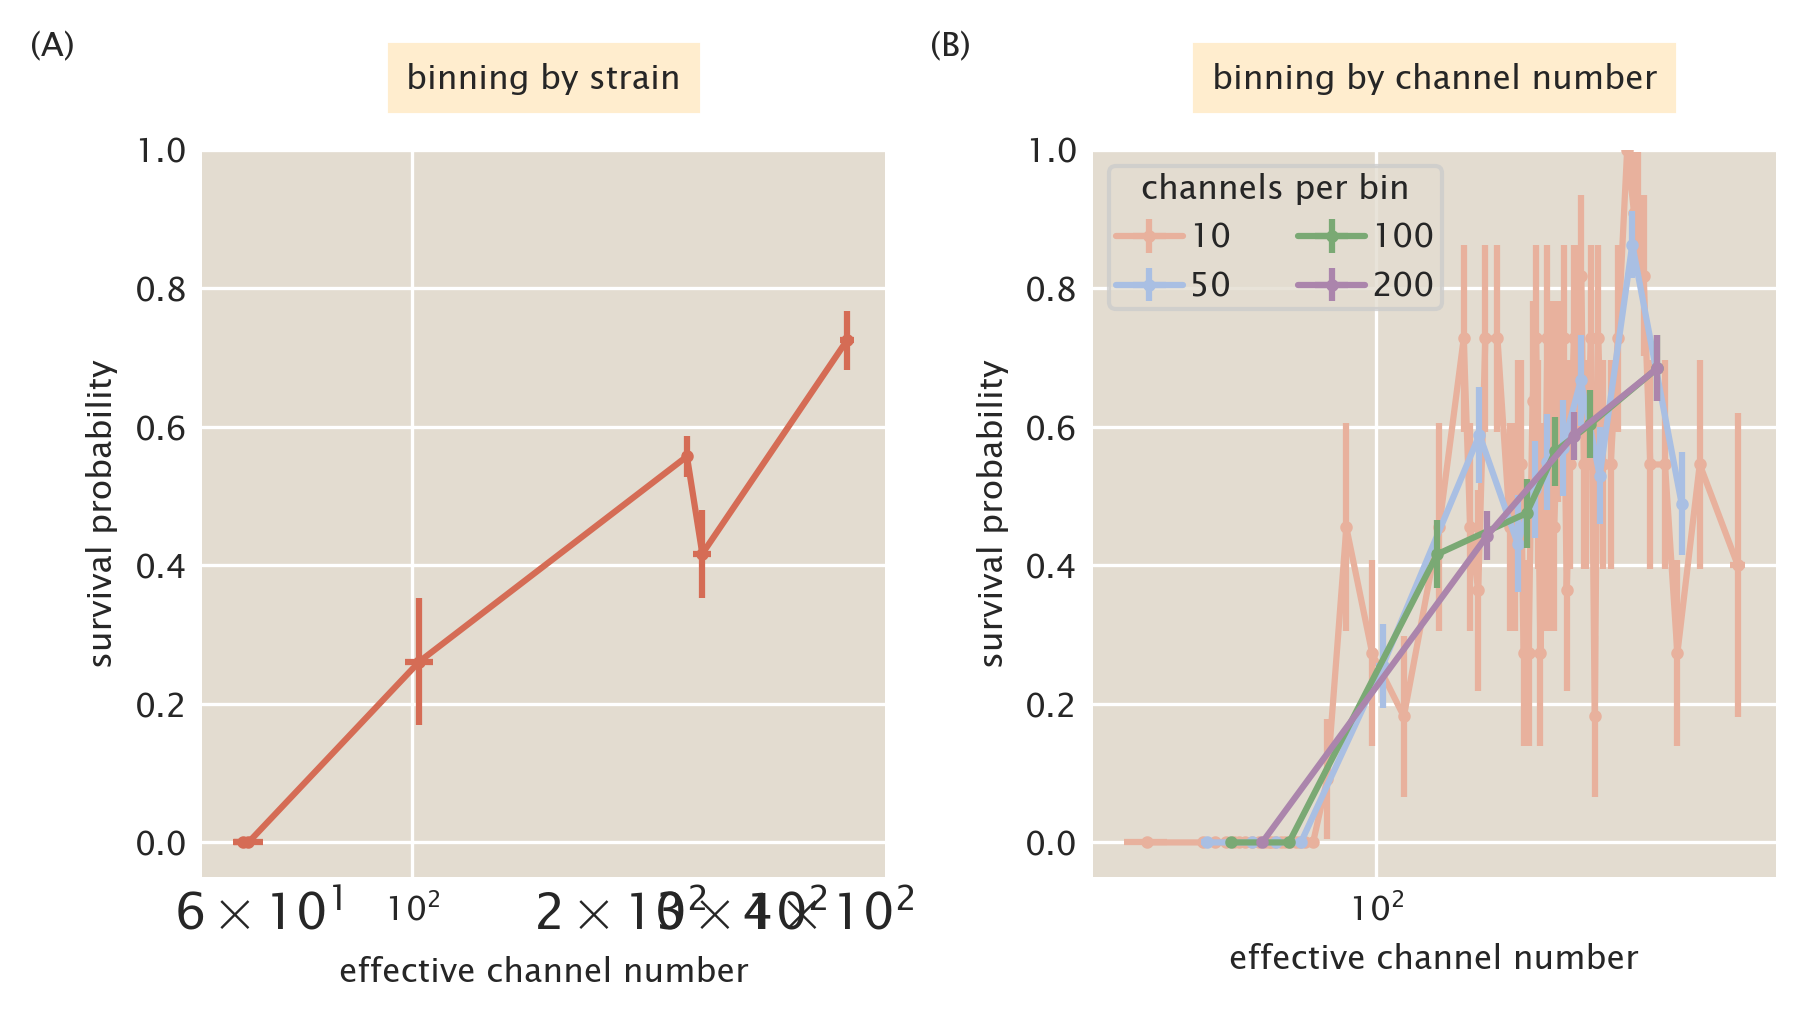
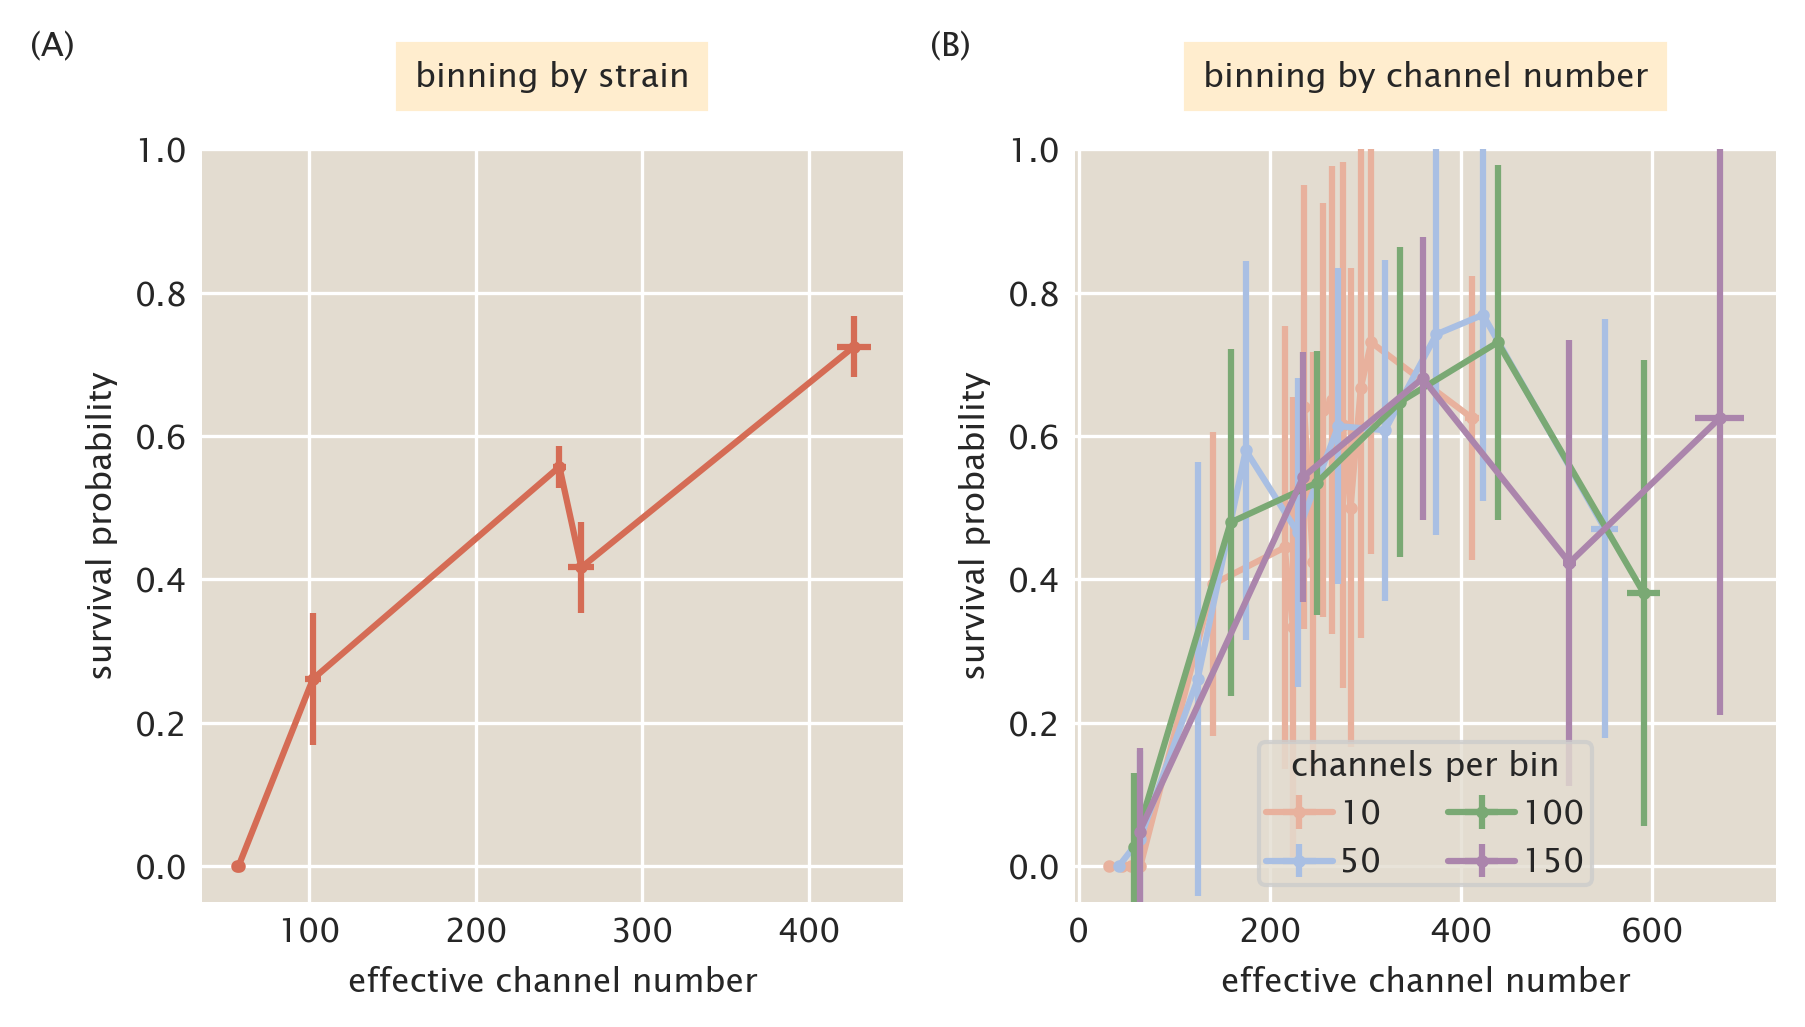
Updated figures with refactored logistic regression.

diff --git a/code/figs/fig4_survival_probability.py b/code/figs/fig4_survival_probability.py
@@ -21,14 +21,32 @@ data = data[data['experiment'] == 'shock']
 # Extract the modes.
 ind = np.argmax(traces['logp'])
 beta_0, beta_1 = traces.iloc[ind][['beta_0', 'beta_1']].values
+print(beta_0, beta_1)
+
+
+def logit(beta_0, beta_1, chan):
+    return (1 + chan**-beta_1 * np.exp(-beta_0))**-1
+
+
+def compute_mean_sem(df):
+    n_tot = len(df)
+    n_surv = np.sum(df['survival'].astype(int))
+    mean_chan = df['effective_channels'].mean()
+    prob = n_surv / n_tot
+    sem_chan = df['effective_channels'].std() / np.sqrt(len(df))
+    prob_err = n_surv * (n_tot - n_surv) / n_tot**3
+    out_dict = {'mean_chan': mean_chan, 'p_survival': prob, 'chan_err': sem_chan,
+                'prob_err': np.sqrt(prob_err)}
+    return pd.Series(out_dict)
+
 
 # Compute the prediction from logistic regression.
-chan_range = np.logspace(0, 4, 500)
-p_survival = (1 + np.exp(-beta_0 - beta_1 * np.log(chan_range)))**-1
+chan_range = np.linspace(0, 1000, 500)
+p_survival = logit(beta_0, beta_1, chan_range)
 
 cred_region = np.zeros((2, len(chan_range)))
 for i, c in enumerate(chan_range):
-    mode = (1 + np.exp(-traces['beta_0'] - traces['beta_1'] * np.log(c)))**-1
+    mode = logit(traces['beta_0'], traces['beta_1'], c)
     cred_region[:, i] = mscl.mcmc.compute_hpd(mode, 0.95)
 
 # %%
@@ -41,9 +59,10 @@ ax2.set_xlabel('effective channel number', fontsize=8)
 ax1.set_ylabel('survival probability', fontsize=8)
 
 # Plot the prediction and credible region
-_ = ax1.plot(chan_range, p_survival, color=colors['blue'], lw=1)
+_ = ax1.plot(chan_range, p_survival,
+             color=colors['blue'], lw=1, label='no binning')
 _ = ax1.fill_between(chan_range, cred_region[0, :], cred_region[1, :],
-                     color=colors['light_blue'], label='logistic regression')
+                     color=colors['light_blue'])
 _ = ax1.plot(chan_range, cred_region[0, :],
              color=colors['blue'], lw=0.5)
 _ = ax1.plot(chan_range, cred_region[1, :],
@@ -59,39 +78,14 @@ ax2.plot(death['effective_channels'], np.random.normal(0, 0.01,
                                                        size=len(death)), 'k.',
          alpha=0.2, ms=2)
 
-# # Plot the binned data.
-# bin_width = 100
-# bins = np.arange(0, 850, bin_width)
-# sorted_vals = data.sort_values('effective_channels')
-# mean_chan, prob, chan_err, prob_err = [], [], [], []
-# for i in range(len(bins) - 1):
-#     slc = data[(data['effective_channels'] >= bins[i]) &
-#                (data['effective_channels'] < bins[i + 1])]
-#     if len(slc) > 0:
-#         n_surv = np.sum(slc['survival'].astype(int))
-#         n_tot = len(slc)
-#         mean_chan.append(np.mean(slc['effective_channels']))
-#         chan_err.append(np.std(slc['effective_channels']) / np.sqrt(len(slc)))
-#         prob.append(n_surv / n_tot)
-#         prob_err.append(np.sqrt(n_surv * (n_tot - n_surv) / n_tot**3))
-#
-# _ = ax1.errorbar(mean_chan, prob, xerr=chan_err, yerr=prob_err, marker='.',
-#                  color=colors['red'], linestyle='none', lw=1)
-#
-
-# Bin by strain and compute the avg..
-
-
-def compute_mean_sem(df):
-    n_tot = len(df)
-    n_surv = np.sum(df['survival'].astype(int))
-    mean_chan = df['effective_channels'].mean()
-    prob = n_surv / n_tot
-    sem_chan = df['effective_channels'].std() / np.sqrt(len(df))
-    prob_err = n_surv * (n_tot - n_surv) / n_tot**3
-    out_dict = {'mean_chan': mean_chan, 'p_survival': prob, 'chan_err': sem_chan,
-                'prob_err': np.sqrt(prob_err)}
-    return pd.Series(out_dict)
+# Plot the binned data.
+bin_width = 15
+binned_data = mscl.stats.density_binning(data, groupby='experiment', bin_width=bin_width,
+                                         input_key='effective_channels', min_cells=15)
+grouped = binned_data.groupby('bin_number').apply(compute_mean_sem)
+_ = ax1.errorbar(grouped['mean_chan'], grouped['p_survival'], xerr=grouped['chan_err'],
+                 yerr=grouped['prob_err'], marker='.', color=colors['purple'], linestyle='none',
+                 lw=1, label='channel')
 
 
 # Compute the statistics and plot
@@ -99,15 +93,15 @@ grouped = data.groupby('rbs').apply(compute_mean_sem)
 sorted_vals = grouped.sort_values('mean_chan')
 ax1.errorbar(sorted_vals['mean_chan'], sorted_vals['p_survival'],
              xerr=sorted_vals['chan_err'], yerr=sorted_vals['prob_err'],
-             color=colors['red'], linestyle='none', lw=1.5, marker='.',
-             ms=5, zorder=2)
-
+             color=colors['red'], linestyle='none', lw=1, marker='.',
+             ms=5, zorder=2, label='RBS')
+beta_0, beta_1
 ax = [ax0, ax1, ax2]
 for a in ax:
-    a.set_xscale('log')
+    # a.set_xscale('log')
     a.xaxis.set_tick_params(labelsize=8)
     a.yaxis.set_tick_params(labelsize=8)
-    a.set_xlim([1, 1E4])
+    a.set_xlim([1, 800])
 
 for a in [ax0, ax2]:
     a.set_frame_on(False)
@@ -115,15 +109,17 @@ for a in [ax0, ax2]:
 
 _ = ax0.set_xticks([])
 _ = ax1.set_xticklabels(['', '', '', '', ''])
-_ = ax2.set_xticks([1, 10, 100, 1000, 1E4])
 _ = ax1.set_ylim([-0.01, 1.01])
+_ = ax1.legend(fontsize=8, title='binning scheme')
+plt.setp(_.get_title(), fontsize=8)
 plt.subplots_adjust(hspace=0.01)
-plt.savefig('../../figs/fig{}_pooled_logistic.pdf', bbox_inches='tight')
-plt.savefig('../../figs/fig{}_pooled_logistic.png', bbox_inches='tight')
+plt.savefig('../../figs/fig{}_pooled_logistic.pdf'.format(FIG_NO),
+            bbox_inches='tight')
+plt.savefig('../../figs/fig{}_pooled_logistic.png'.format(FIG_NO),
+            bbox_inches='tight')
 
 # %% Generate the pooled data probability curve.
-fig, ax = plt.subplots(1, 1, figsize=(4.5, 3.5),
-                       height_ratios=[0.5, 0.8, 0.5])
+fig, ax = plt.subplots(1, 1, figsize=(4.5, 3.5), height_ratios=[0.5, 0.8, 0.5])
 
 
 ax.set_xscale('log')
@@ -154,7 +150,7 @@ slow_data = data[(data['experiment'] == 'shock') &
 fast_data = data[(data['experiment'] == 'shock') &
                  (data['shock_class'] == 'fast')].copy()
 
-chan_range = np.logspace(0, 4, 500)
+chan_range = np.logspace(0, 3, 500)
 samples = ['fast', 'slow']
 prob_survival = {}
 cred_regions = {}
@@ -162,17 +158,16 @@ for s in samples:
     samp = traces[traces['shock_speed'] == s]
     beta_0, beta_1 = np.median(
         samp['beta_0'].values), np.median(samp['beta_1'].values)
-    prob_survival[s] = (
-        1 + np.exp(-beta_0 - beta_1 * np.log(chan_range)))**-1
+    prob_survival[s] = logit(beta_0, beta_1, chan_range)
+
     _cred = np.zeros((2, len(chan_range)))
 
-    print(s, (np.log(9) - beta_0) / beta_1)
-
+    print(s, np.exp((np.log(4) - beta_0) / beta_1))
     # Compute the credible regions.
     beta_0, beta_1 = samp['beta_0'].values, samp['beta_1'].values
-    print(s, mscl.mcmc.compute_hpd((np.log(9) - beta_0) / beta_1, 0.95))
+    print(s, np.exp(mscl.mcmc.compute_hpd((np.log(8) - beta_0) / beta_1, 0.95)))
     for i, c in enumerate(chan_range):
-        _prob = (1 + np.exp(-beta_0 - beta_1 * np.log(c)))**-1
+        _prob = logit(beta_0, beta_1, c)
         _cred[:, i] = mscl.mcmc.compute_hpd(_prob, mass_frac=0.95)
     cred_regions[s] = _cred
 
@@ -180,15 +175,12 @@ for s in samples:
 fig = plt.figure(figsize=(6.5, 3.5))
 gs = gridspec.GridSpec(3, 2, height_ratios=[0.5, 8, 0.5])
 ax = [plt.subplot(gs[i, j]) for i in range(3) for j in range(2)]
-ax[0].set_title('slow shock (< 1.0 Hz)', backgroundcolor=color['pale_yellow'],
+ax[0].set_title('slow shock (< 1.0 Hz)', backgroundcolor=colors['pale_yellow'],
                 fontsize=8)
-ax[1].set_title('fast shock (≥ 1.0 Hz)', backgroundcolor=color['pale_yellow'],
+ax[1].set_title('fast shock (≥ 1.0 Hz)', backgroundcolor=colors['pale_yellow'],
                 fontsize=8)
 
 # Set the special axes requirements for the rug plots
-for a in ax:
-    a.set_xscale('log')
-
 for i in (0, 1):
     ax[i].set_axis_off()
 for a in ax:
@@ -211,6 +203,19 @@ for j, exp in enumerate([slow_data, fast_data]):
             np.random.normal(loc=0, scale=0.01, size=len(_g))
         _ = a.plot(_g['effective_channels'], _y, 'k.', ms=1.5, alpha=0.2)
 
+# Plot data binned by strain
+for i, exp in enumerate([slow_data, fast_data]):
+    grouped = exp.groupby('rbs').apply(compute_mean_sem)
+    _ = ax[i + 2].errorbar(grouped['mean_chan'], grouped['p_survival'], xerr=grouped['chan_err'],
+                           yerr=grouped['prob_err'], color=colors['red'], lw=1, linestyle='none',
+                           marker='.', ms=4, zorder=100, label='1 RBS/bin')
+    binned = mscl.stats.density_binning(
+        exp, bin_width=10, groupby='experiment', input_key='effective_channels', min_cells=15)
+    grouped = binned.groupby('bin_number').apply(compute_mean_sem)
+    _ = ax[i + 2].errorbar(grouped['mean_chan'], grouped['p_survival'], xerr=grouped['chan_err'],
+                           yerr=grouped['prob_err'], color='#4b4b4b', lw=1, linestyle='none',
+                           marker='.', ms=4, zorder=99, label='10 channels/bin')
+
 # Properly format the axes labels.
 for i in (0, 1, 4, 5):
 
@@ -221,35 +226,42 @@ for i in (0, 1, 4, 5):
         ax[i].set_xlabel('effective channel number', fontsize=8)
 
 # Plot the regression curves.
-_ = ax[2].plot(chan_range, prob_survival['slow'], color=color['red'],
-               label='logistic regression')
+_ = ax[2].plot(chan_range, prob_survival['slow'], color=colors['purple'],
+               label='logistic\nregression')
 
-_ = ax[3].plot(chan_range, prob_survival['fast'], color=color['blue'])
+_ = ax[3].plot(chan_range, prob_survival['fast'], color=colors['blue'],
+               label='logistic\nregression')
 
+for i in range(2):
+    _leg = ax[i + 2].legend(fontsize=8, loc='lower right')
+    plt.setp(_leg.get_title(), fontsize=8)
 # Fill in the credible regions.
 _ = ax[2].fill_between(chan_range, cred_regions['slow'][0, :], cred_regions['slow'][1, :],
-                       color=color['light_red'], alpha=0.5)
+                       color=colors['light_purple'], alpha=0.5)
 _ = ax[2].plot(chan_range, cred_regions['slow'][0, :],
-               color=color['red'], lw=0.75, alpha=0.8)
+               color=colors['purple'], lw=0.75, alpha=0.8)
 _ = ax[2].plot(chan_range, cred_regions['slow'][1, :],
-               color=color['red'], lw=0.75, alpha=0.8)
+               color=colors['purple'], lw=0.75, alpha=0.8)
 _ = ax[3].fill_between(chan_range, cred_regions['fast'][0, :], cred_regions['fast'][1, :],
-                       color=color['light_blue'], alpha=0.5)
+                       color=colors['light_blue'], alpha=0.5)
 _ = ax[3].plot(chan_range, cred_regions['fast'][0, :],
-               color=color['blue'], lw=0.75, alpha=0.6)
+               color=colors['blue'], lw=0.75, alpha=0.6)
 _ = ax[3].plot(chan_range, cred_regions['fast'][1, :],
-               color=color['blue'], lw=0.75, alpha=0.6)
+               color=colors['blue'], lw=0.75, alpha=0.6)
 # Properly set the limits for the regression curves
 for i in (2, 3):
     ax[i].set_ylim([0, 1])
-    # ax[i].set_xlim([0, 1000])
+    ax[i].set_xlim([0, 1000])
     ax[i].set_ylabel('survival probability', fontsize=8)
 plt.subplots_adjust(hspace=0, wspace=0.25)
 
 # Add the appropriate text labels.
 ax[0].text(-0.2, 1.5, '(A)', fontsize=8, transform=ax[0].transAxes)
 ax[1].text(-0.2, 1.5, '(B)', fontsize=8, transform=ax[1].transAxes)
+ax[2].set_ylim([-0.01, 1.01])
+ax[3].set_ylim([-0.01, 1.01])
 for a in ax:
-    a.set_xlim([1, 1E4])
+    a.set_xlim([1, 1E3])
+
 plt.savefig('../../figs/fig{}.pdf'.format(FIG_NO), bbox_inches='tight')
 plt.savefig('../../figs/fig{}.png'.format(FIG_NO), bbox_inches='tight')

diff --git a/code/figs/fig4_binning_schemes.py b/code/figs/fig4_binning_schemes.py
@@ -7,7 +7,7 @@ import sys
 sys.path.insert(0, '../../')
 import mscl.plotting
 import mscl.stats
-
+%matplotlib inline
 # -----------------------------------
 colors = mscl.plotting.set_plotting_style()
 FIG_NO = 4
@@ -21,7 +21,6 @@ shock_data = data[data['experiment'] == 'shock']
 fig, ax = plt.subplots(1, 2, figsize=(6, 3.5))
 
 for a in ax:
-    a.set_xscale(log)
     a.xaxis.set_tick_params(labelsize=8)
     a.yaxis.set_tick_params(labelsize=8)
     a.set_ylabel('survival probability', fontsize=8)
@@ -64,27 +63,18 @@ _ = ax[0].errorbar(sorted_vals['mean_chan'], sorted_vals['p_survival'],
 color_range = [colors['light_red'], colors['light_blue'],
                colors['green'], colors['purple']]
 sorted_vals = shock_data.sort_values('effective_channels')
-bin_widths = [10, 50, 100, 200]
+bin_widths = [10, 50, 100, 150]
 for j, w in enumerate(bin_widths):
-    bins = np.arange(0, 850, w)
-    mean_chan, chan_err, p_survival, prob_err = [], [], [], []
-    for i in range(len(bins) - 1):
-        slc = sorted_vals.iloc[bins[i]:bins[i + 1] + 1]
-        if len(slc) != 0:
-            n_surv = np.sum(slc['survival'].astype(int))
-            n_tot = len(slc)
-            mean_chan.append(slc['effective_channels'].mean())
-            chan_err.append(
-                slc['effective_channels'].std() / np.sqrt(len(slc)))
-            p_survival.append(n_surv / n_tot)
-            prob_err.append(n_surv * (n_tot - n_surv) / n_tot**3)
-
-    _ = ax[1].errorbar(mean_chan, p_survival, xerr=chan_err, yerr=np.sqrt(prob_err),
+    binned = mscl.stats.density_binning(
+        shock_data, bin_width=w, input_key='effective_channels', groupby='experiment')
+    grouped = binned.groupby('bin_number').apply(compute_mean_sem)
+    _ = ax[1].errorbar(grouped['mean_chan'], grouped['p_survival'], xerr=grouped['chan_err'], yerr=np.sqrt(grouped['prob_err']),
                        color=color_range[j], lw=1.5, marker='.', ms=4, label=w,
                        zorder=j + 1)
 
 
-leg = ax[1].legend(fontsize=8, title='channels per bin', ncol=2)
+leg = ax[1].legend(fontsize=8, title='channels per bin',
+                   ncol=2, loc='lower center')
 plt.setp(leg.get_title(), fontsize=8)
 for a in ax:
     a.set_ylim([-0.05, 1])

diff --git a/code/figs/fig2_v2.py b/code/figs/fig2_v2.py
@@ -1,4 +1,4 @@
-# -*- coding: utf-8 -*-
+# -*- coding: utf-10 -*-
 import numpy as np
 import pandas as pd
 import matplotlib.pyplot as plt
@@ -47,19 +47,19 @@ _ = sns.stripplot('rbs', 'effective_channels', data=shock_data,
 
 # Add the marker for the standard candle strain
 ax[0].set_ylim(0, 2)
-ax[1].set_ylim(0, 800)
+ax[1].set_ylim(0, 1000)
 
 # Format the axes and save
-ax[0].set_ylabel('relative intensity', fontsize=8)
-ax[1].set_ylabel('effective channel number', fontsize=8)
-ax[0].set_xlabel('RBS modification', fontsize=8)
-ax[1].set_xlabel('RBS modification', fontsize=8)
-ax[0].yaxis.set_tick_params(labelsize=8)
-ax[1].yaxis.set_tick_params(labelsize=8)
-ax[0].xaxis.set_tick_params(labelsize=8, rotation=30)
-ax[1].xaxis.set_tick_params(labelsize=8)
-fig.text(0.01, 0.95, '(A)', fontsize=8)
-fig.text(0.51, 0.95, '(B)', fontsize=8)
+ax[0].set_ylabel('relative intensity', fontsize=10)
+ax[1].set_ylabel('effective channel number', fontsize=10)
+ax[0].set_xlabel('RBS modification', fontsize=10)
+ax[1].set_xlabel('RBS modification', fontsize=10)
+ax[0].yaxis.set_tick_params(labelsize=10)
+ax[1].yaxis.set_tick_params(labelsize=10)
+ax[0].xaxis.set_tick_params(labelsize=10, rotation=30)
+ax[1].xaxis.set_tick_params(labelsize=10)
+fig.text(0.01, 0.95, '(A)', fontsize=10)
+fig.text(0.51, 0.95, '(B)', fontsize=10)
 plt.tight_layout()
 plt.savefig('../figs/fig{}.pdf'.format(FIG_NO), bbox_inches='tight')
 plt.savefig('../figs/fig{}.png'.format(FIG_NO), bbox_inches='tight')

diff --git a/mscl/stats.py b/mscl/stats.py
@@ -11,7 +11,7 @@ def ecdf(data):
 
 
 def density_binning(data, groupby='shock_group', bin_width=10,
-                    min_events=20, input_key='channel_density',
+                    min_cells=20, input_key='channel_density',
                     output_key='survival'):
     """
     Bins an array of data by a given density.
@@ -73,7 +73,7 @@ def density_binning(data, groupby='shock_group', bin_width=10,
 
         # Find those less than the minimum cell number.
         bin_counts = _grouped.to_dict()
-        low_bins = _grouped[_grouped < min_events].to_dict()
+        low_bins = _grouped[_grouped < min_cells].to_dict()
 
         # Get just the bin numbers.
         bin_nos = list(low_bins.keys())
